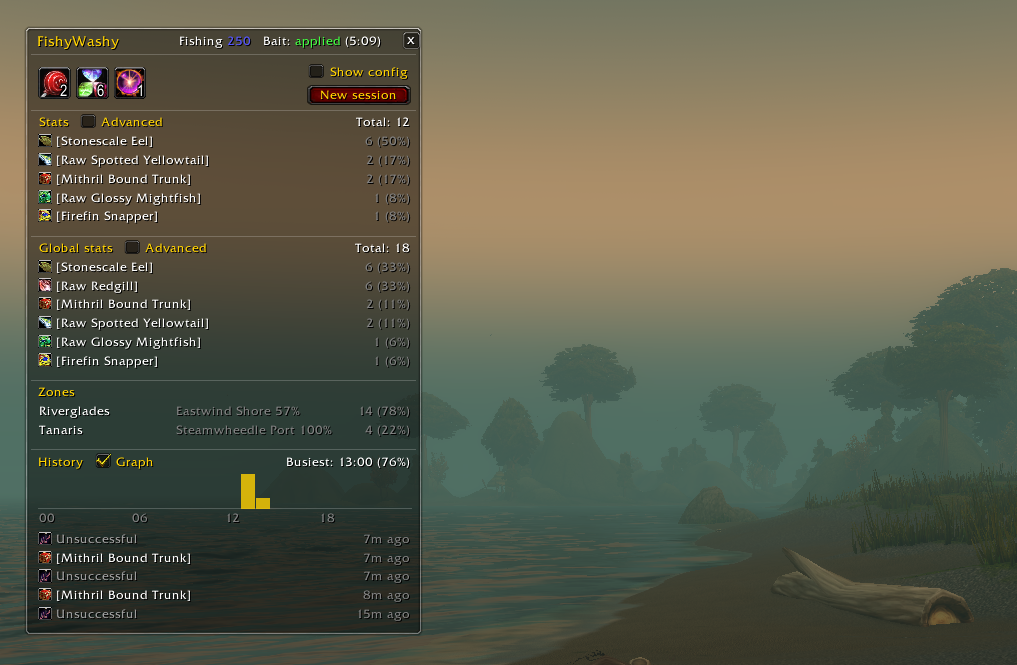
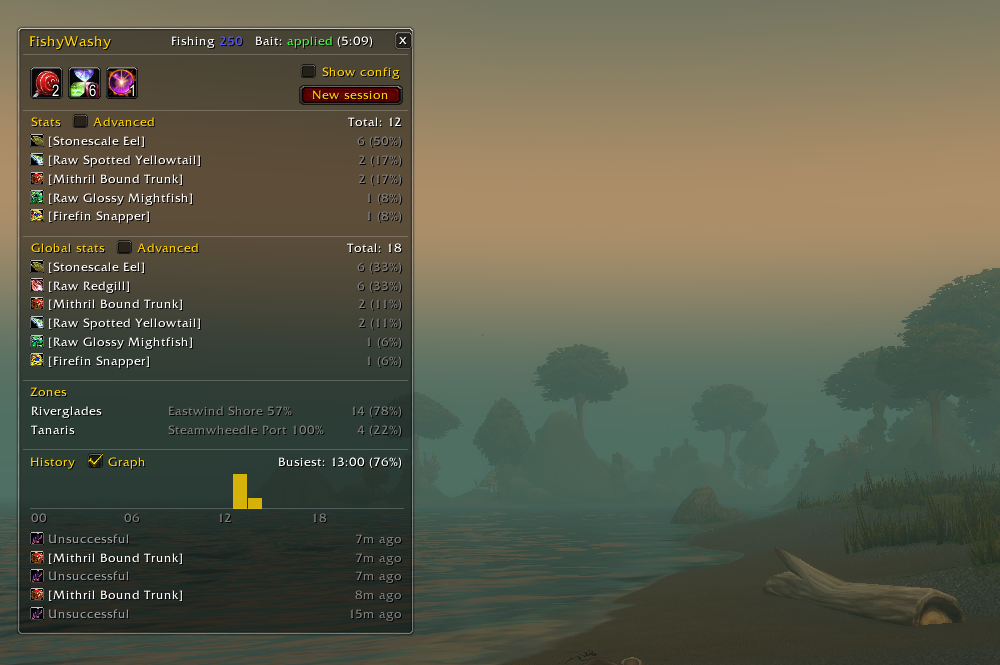
Update README screenshots and add fishing skill section
- New fishing skill screenshot and README section
- New advanced stats screenshot, without the character name
- Screenshots trimmed to the same 1000 px width

diff --git a/README.md b/README.md
@@ -5,13 +5,19 @@
 A small World of Warcraft Classic fishing addon.
 
 - Boosts the volume while fishing so the bobber splash is easy to hear
-- Shows bait status and buttons to apply bait from your bags
+- Shows your total fishing skill and bait status, with buttons to apply bait from your bags
 - Double right-click to cast Fishing (optional)
 - Session and all-time stats: catches, catch rate, zones and when you fish
 
 The window shows automatically when a fishing pole is equipped. `/fishy` toggles it.
 
 ![FishyWashy window](docs/main.png)
+
+## Fishing skill
+
+Hover the fishing skill to see where it comes from: rank, bait, fishing pole and buffs.
+
+![Fishing skill breakdown](docs/skill.png)
 
 ## Configurable
 
